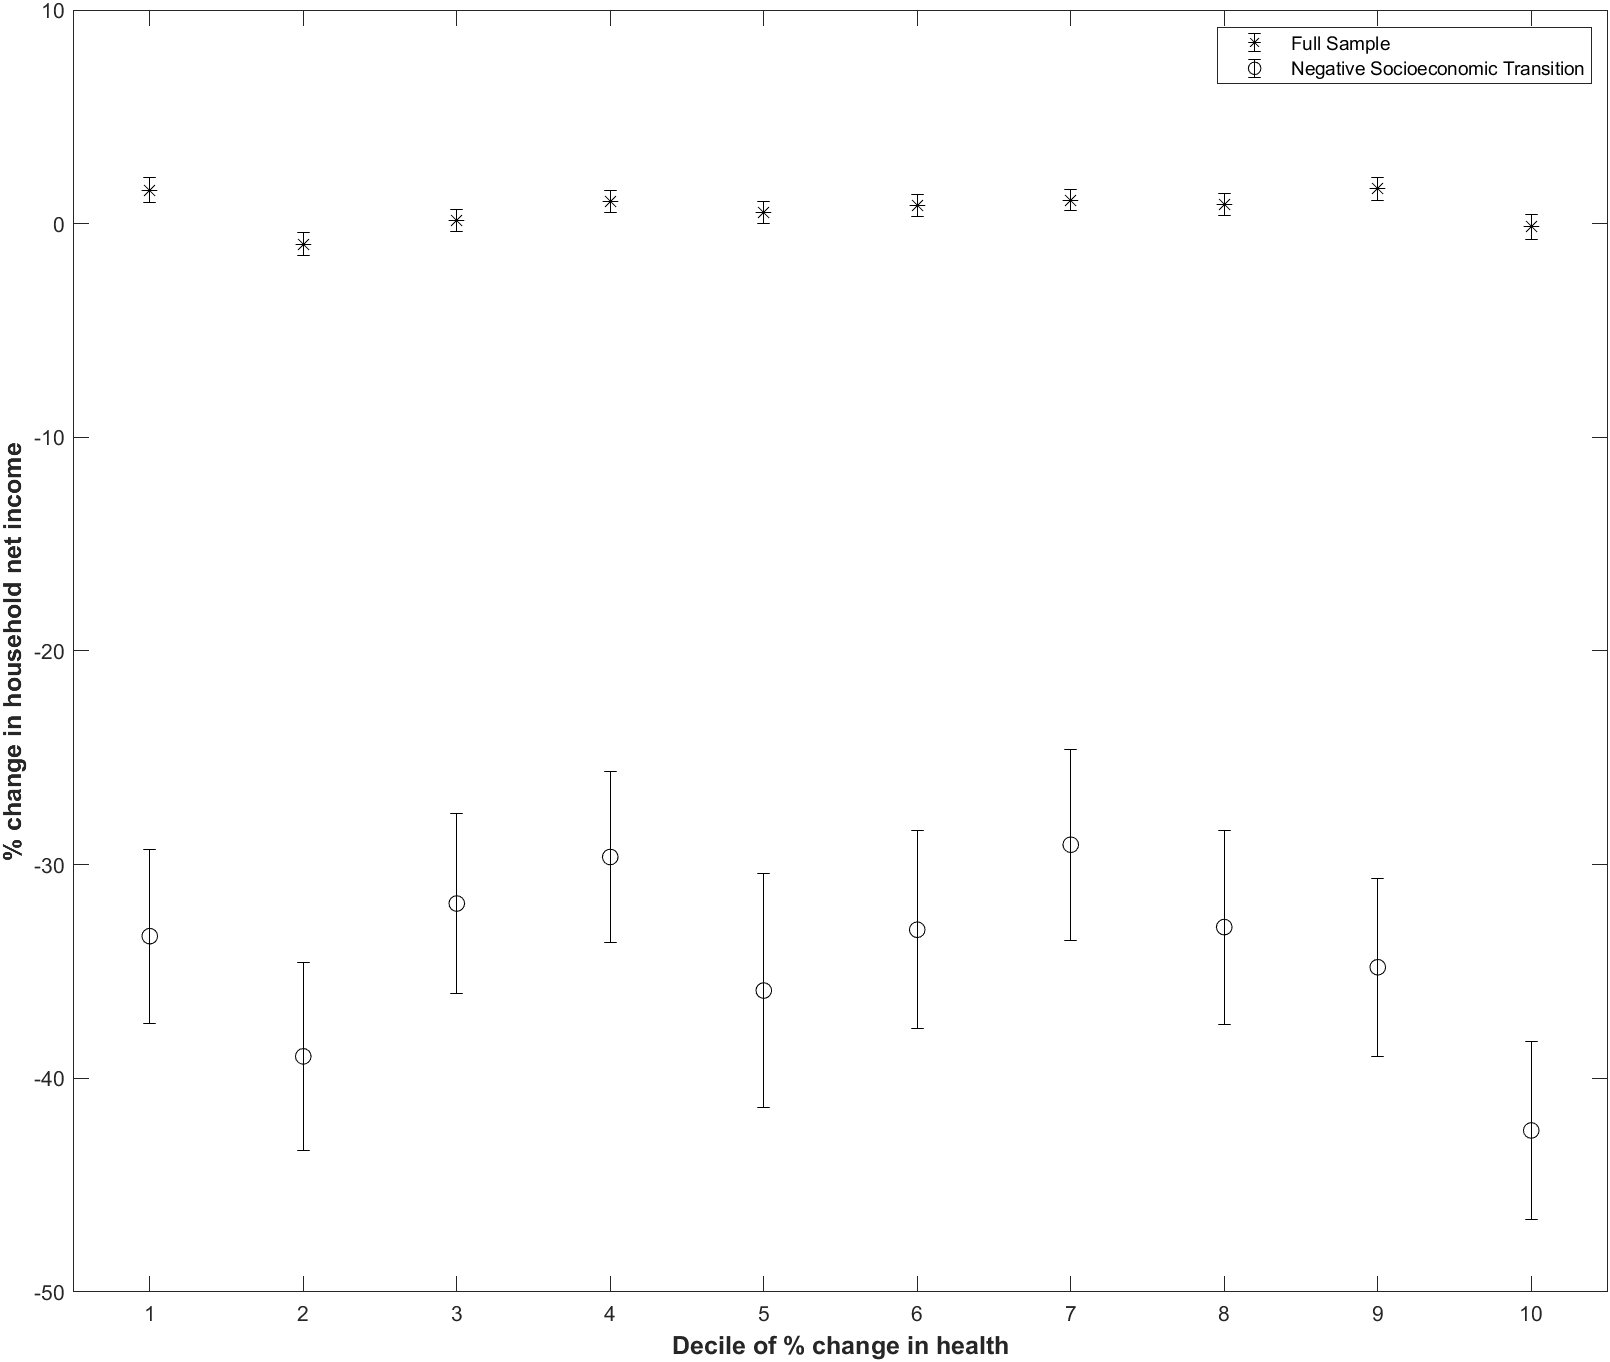
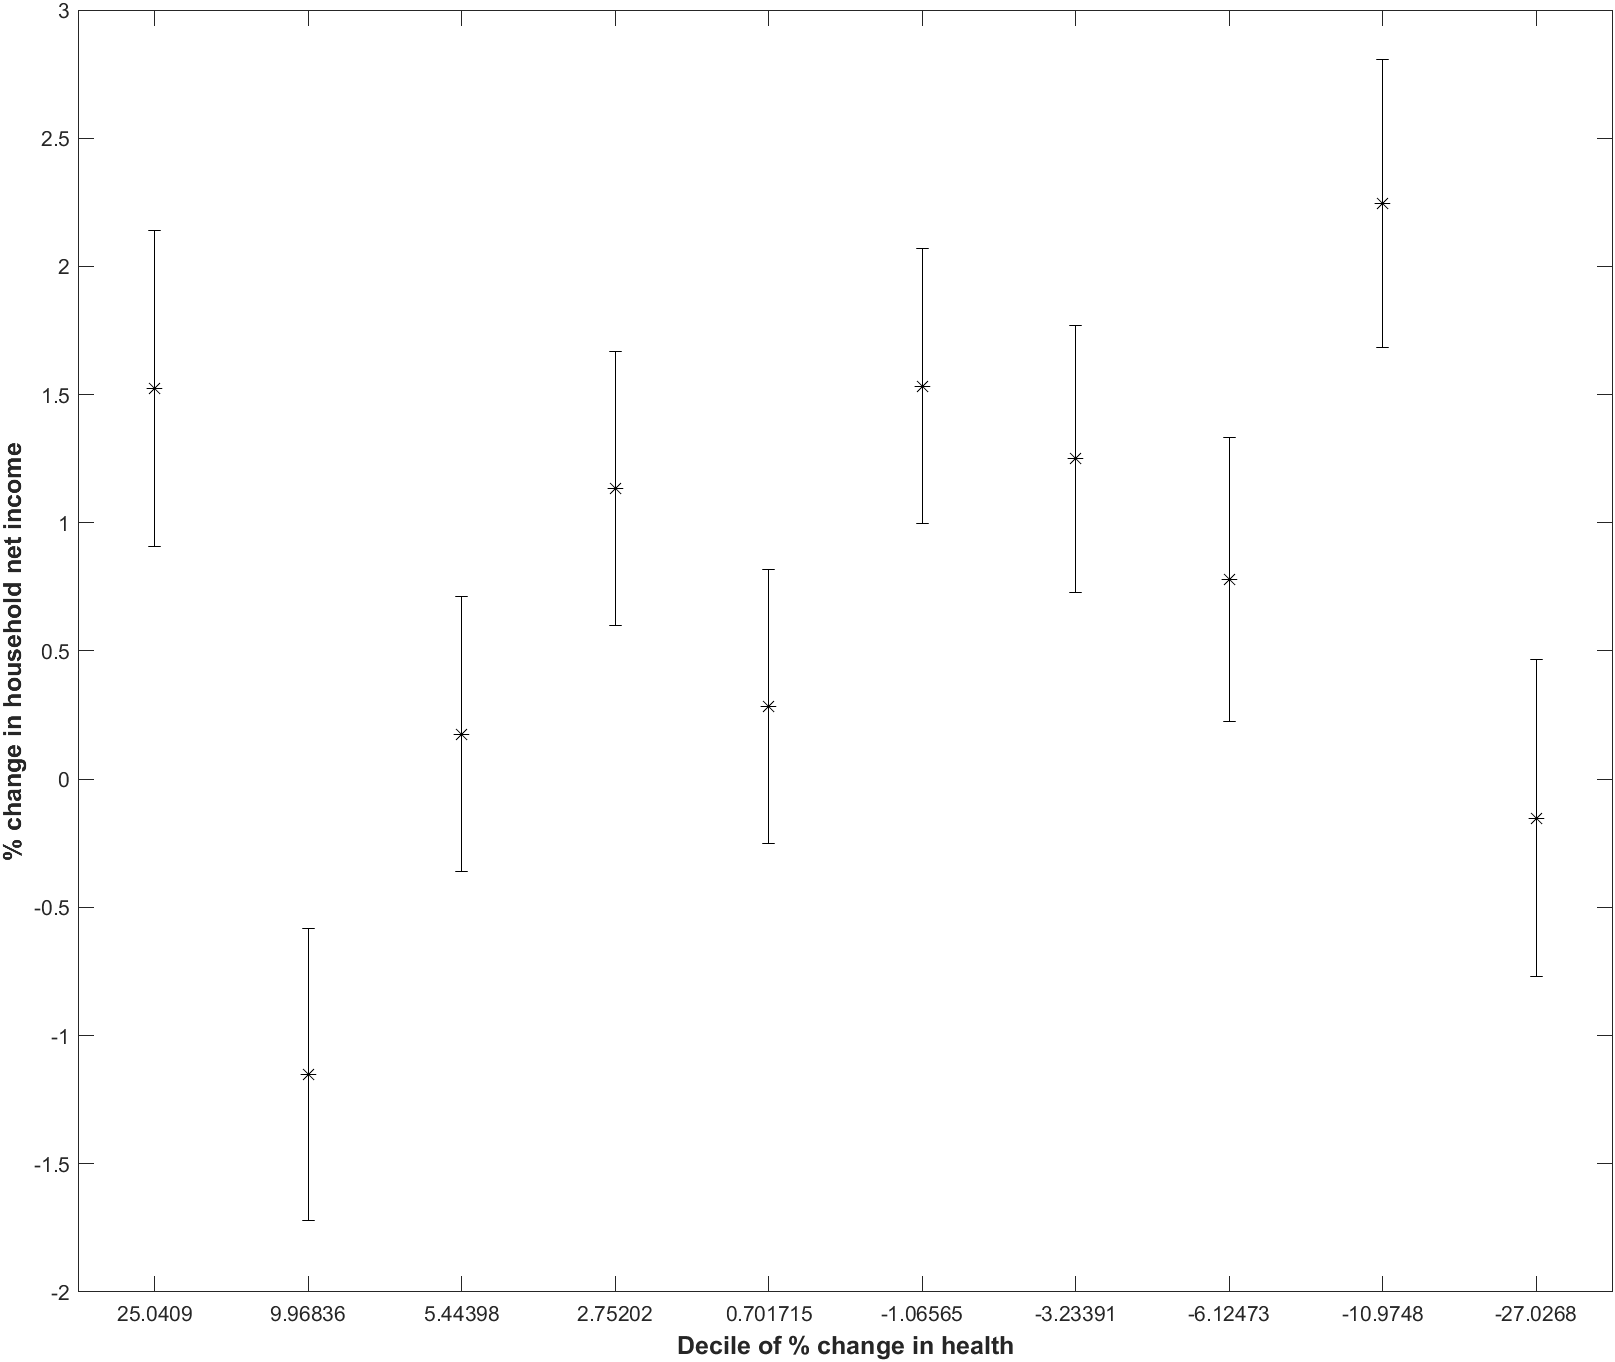
health income relationship

diff --git a/Model Analysis/Figures/Health_Income_Graphic.m b/Model Analysis/Figures/Health_Income_Graphic.m
@@ -3,36 +3,21 @@ clear
 clc
 close all
 
-Health_Impact_Income=table2array(readtable('../../Data Preparation & Analysis/Outputs/HealthIncomeHistogramm.xlsx', 'Sheet','Full Sample'));
-Health_Impact_Income =flip([Health_Impact_Income]);
-Health_Impact_Income_Subsample=table2array(readtable('../../Data Preparation & Analysis/Outputs/HealthIncomeHistogramm.xlsx', 'Sheet','Negative Transition'));
-Health_Impact_Income_Subsample =flip([Health_Impact_Income_Subsample]);
-
-% figure(1)
-% subplot(1,2,1)
-% errorbar(Health_Impact_Income(:,1),Health_Impact_Income(:,2),'*', 'MarkerSize',5, 'Color', 'black')
-% xlim([0.5,10.5])
-% xticks(1:10)
-% xticklabels((1:10))
-% xlabel('Decile of % change in health','FontSize',12,'FontWeight','bold')
-% ylabel('% change in household net income','FontSize',12,'FontWeight','bold')
-% title('Full Sample')
-% subplot(1,2,2)
-% errorbar(Health_Impact_Income_Subsample(:,1),Health_Impact_Income_Subsample(:,2),'*', 'MarkerSize',5, 'Color', 'black')
-% xlim([0.5,10.5])
-% xticks(1:10)
-% xticklabels((1:10))
-% xlabel('Decile of % change in health','FontSize',12,'FontWeight','bold')
-% title('Negative Social Class Transition')
+Health_Impact_Income_Decile=table2array(readtable('../../Data Preparation & Analysis/Outputs/HealthIncomeHistogramm.xlsx', 'Sheet','Deciles'));
+Health_Impact_Income_Decile =flip([Health_Impact_Income_Decile]);
+Health_Impact_Income_Pctile=table2array(readtable('../../Data Preparation & Analysis/Outputs/HealthIncomeHistogramm.xlsx', 'Sheet','Percentiles'));
+Health_Impact_Income_Pctile =flip([Health_Impact_Income_Pctile]);
+Health_Impact_Income_Pctile_dh=table2array(readtable('../../Data Preparation & Analysis/Outputs/HealthIncomeHistogramm.xlsx', 'Sheet','Percentiles XAxis'));
+Health_Impact_Income_Pctile_dh =flip([Health_Impact_Income_Pctile_dh]);
+Health_Impact_Income_Decile_dh=table2array(readtable('../../Data Preparation & Analysis/Outputs/HealthIncomeHistogramm.xlsx', 'Sheet','Deciles XAxis'));
+Health_Impact_Income_Decile_dh =flip([Health_Impact_Income_Decile_dh]);
 
 figure(1)
-errorbar(Health_Impact_Income(:,1),Health_Impact_Income(:,2),'*', 'MarkerSize',7.5, 'Color', 'black')
-hold on 
-errorbar(Health_Impact_Income_Subsample(:,1),Health_Impact_Income_Subsample(:,2),'o', 'MarkerSize',7.5, 'Color', 'black')
-legend('Full Sample','Negative Socioeconomic Transition')
+errorbar(Health_Impact_Income_Decile(:,1),Health_Impact_Income_Decile(:,2),'*', 'MarkerSize',7.5, 'Color', 'black')
+% legend('Full Sample')
 xlim([0.5,10.5])
 xticks(1:10)
-xticklabels((1:10))
+xticklabels(Health_Impact_Income_Decile_dh(:,1)')
 xlabel('Decile of % change in health','FontSize',12,'FontWeight','bold')
 ylabel('% change in household net income','FontSize',12,'FontWeight','bold')
 
@@ -43,3 +28,20 @@ set(h,'Units','Inches');
 pos = get(h,'Position');
 set(h,'PaperPositionMode','Auto','PaperUnits','Inches','PaperSize',[pos(3), pos(4)])
 exportgraphics(h,'..\Outputs\Fig_1_temp.png','BackgroundColor','none')
+
+
+figure(2)
+errorbar(Health_Impact_Income_Pctile(:,1),Health_Impact_Income_Pctile(:,2),'-*', 'MarkerSize',7.5, 'Color', 'black')
+xlim([0.5,100.5])
+xticks(1:100)
+xticklabels((Health_Impact_Income_Pctile_dh(:,1)'))
+xlabel('Percentiles of % change in health','FontSize',12,'FontWeight','bold')
+ylabel('% change in household net income','FontSize',12,'FontWeight','bold')
+
+
+set (figure(2), 'Units', 'normalized', 'Position', [0.16,0,0.66,1]);
+h = figure(2);
+set(h,'Units','Inches');
+pos = get(h,'Position');
+set(h,'PaperPositionMode','Auto','PaperUnits','Inches','PaperSize',[pos(3), pos(4)])
+exportgraphics(h,'..\Outputs\Fig_1_temp2.png','BackgroundColor','none')
